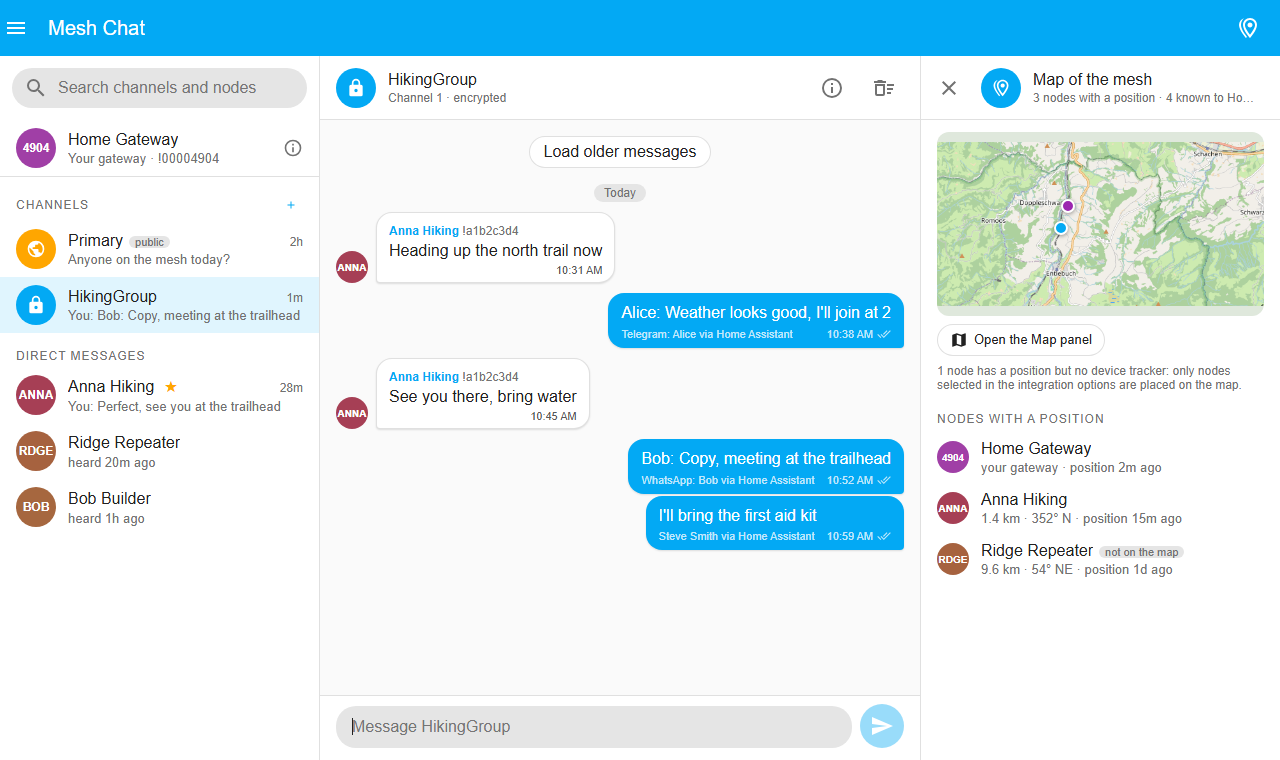
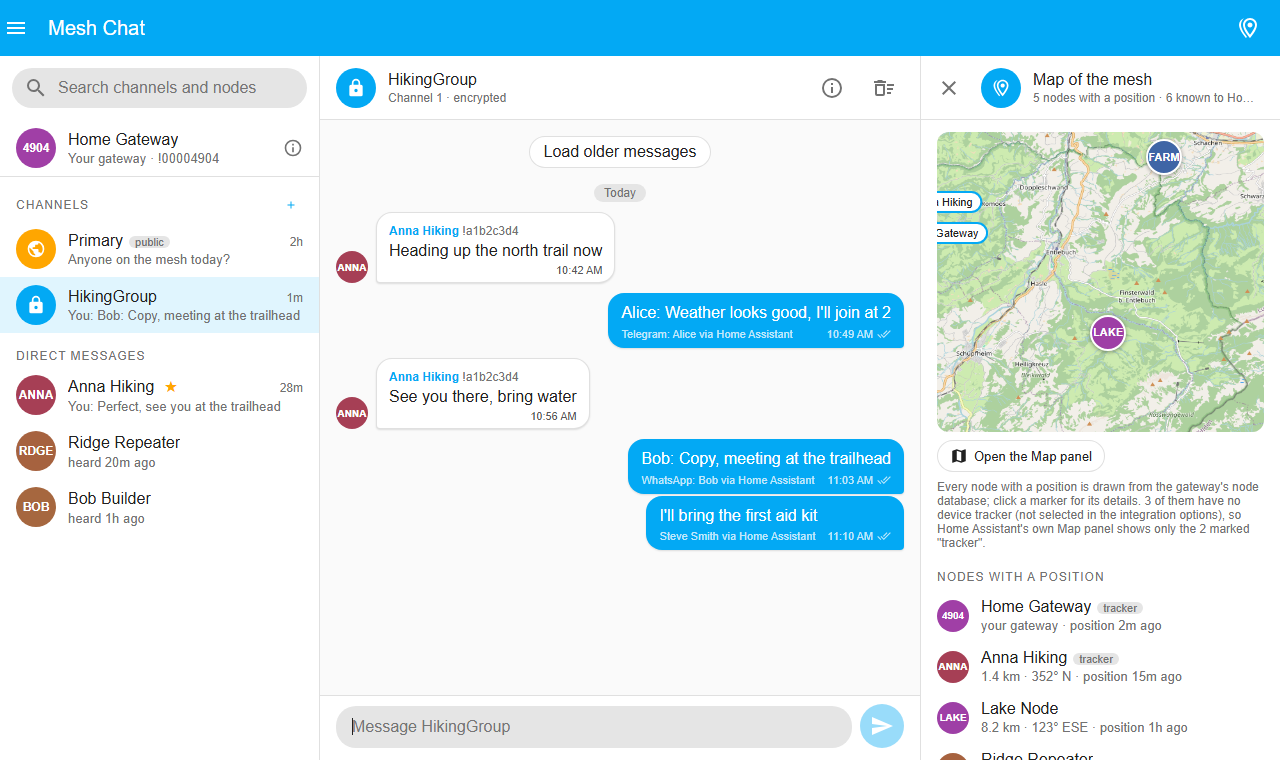
README: the map shows every node with a position

Changed region(s): [[0.7188, 0.1513, 1.0, 1.0], [0.5, 0.6658, 0.6562, 0.7263]]

diff --git a/README.md b/README.md
@@ -411,13 +411,15 @@ Assistant log with the user's name.
 - **Your gateway**: the row above the channels is the connected node itself. It opens the same details pane with a
   *Gateway* section on top: Home Assistant entry, firmware, hardware, role, region, modem preset, hop limit, TX
   power, MQTT, and how many channels and nodes it has.
-- **Map of the mesh**: the map button in the toolbar opens a view with Home Assistant's map and every node that
-  reported a position, sorted by distance from the gateway, with the position age. Click a node to open its details.
+- **Map of the mesh**: the map button in the toolbar opens a view with Home Assistant's map showing every node
+  that reported a position to the gateway, and the same nodes as a list sorted by distance from the gateway with
+  the position age. Click a marker or a row to open the node's details.
 
-<p align="center"><img src="docs/mesh-chat/map.png" width="800" alt="Map view: the gateway row at the top of the list, the embedded map with the gateway and a node, and the list of nodes with a position"></p>
+<p align="center"><img src="docs/mesh-chat/map.png" width="800" alt="Map view: the gateway row at the top of the list, the embedded map with markers for all nodes, and the list of nodes with a position"></p>
 
-Only nodes with a `device_tracker` entity (the nodes selected in the integration options) are placed on the map;
-the others are still listed with their distance and bearing and marked *not on the map*.
+The map is Home Assistant's own map element. Nodes with a `device_tracker` entity (the nodes selected in the
+integration options, marked *tracker* in the list) are drawn by Home Assistant itself; all other nodes are added as
+markers from the gateway's node database, so they appear here but not in Home Assistant's Map panel or automations.
 
 ### Options
 
